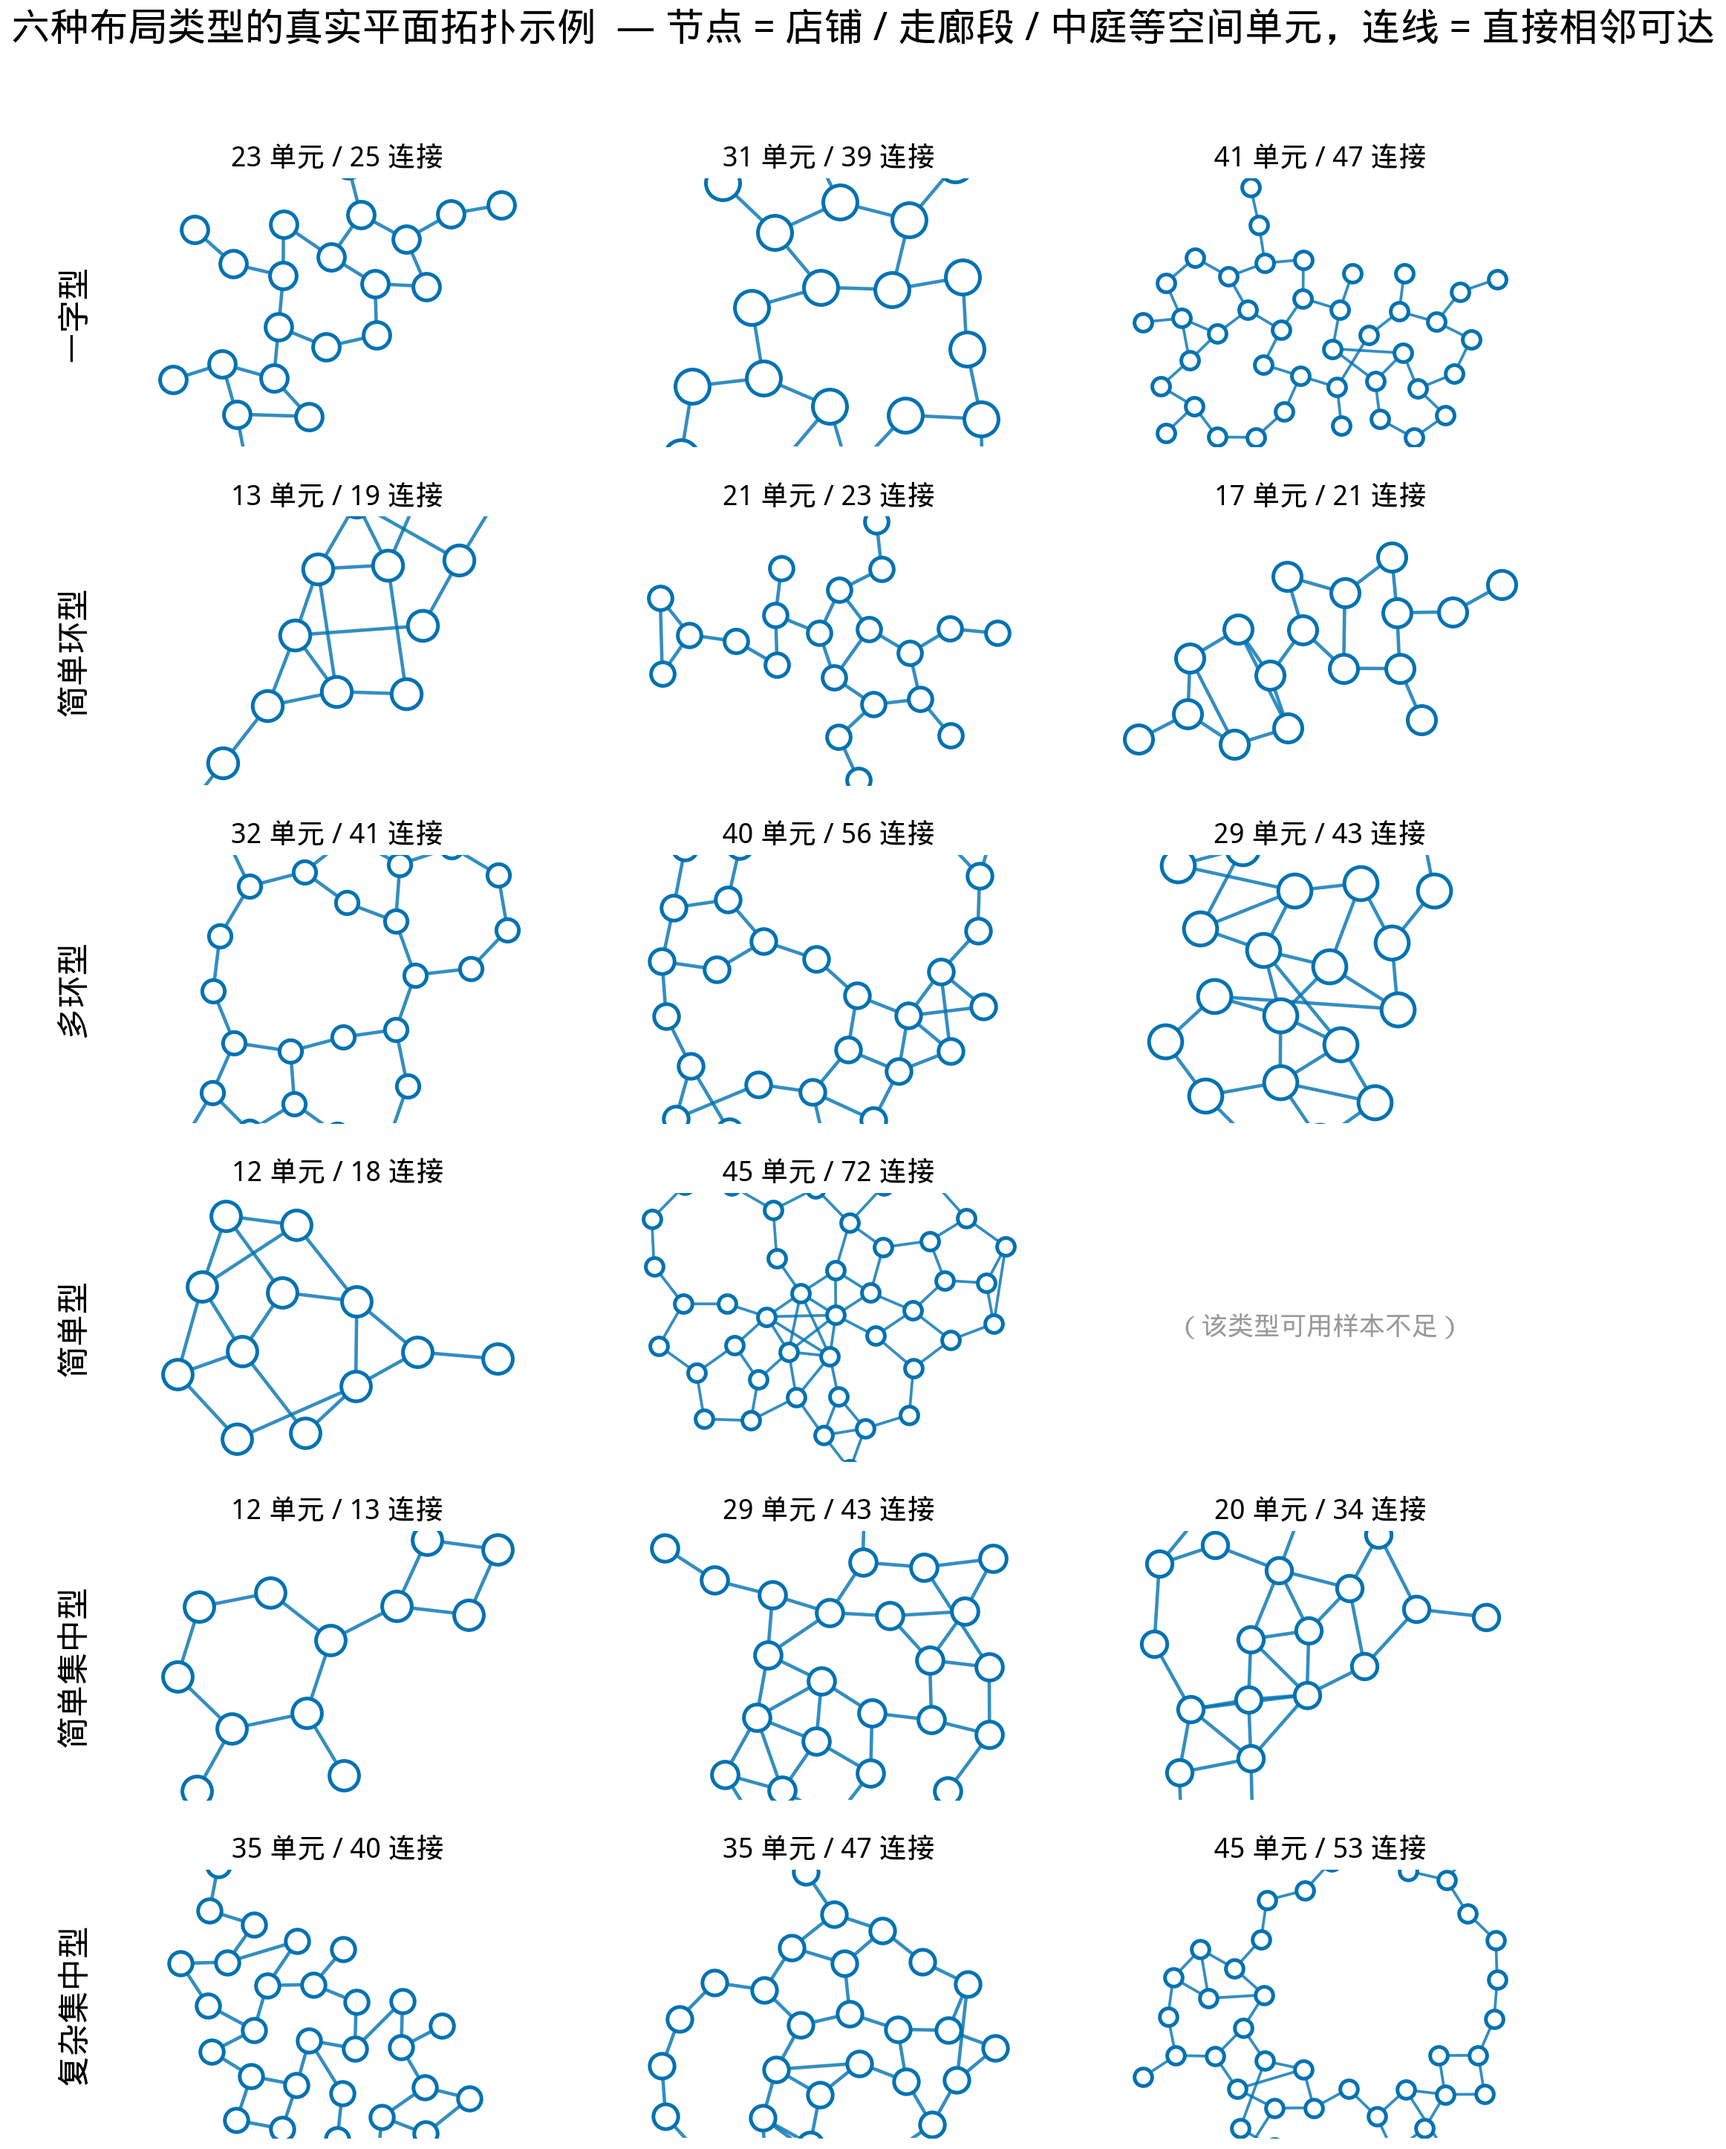
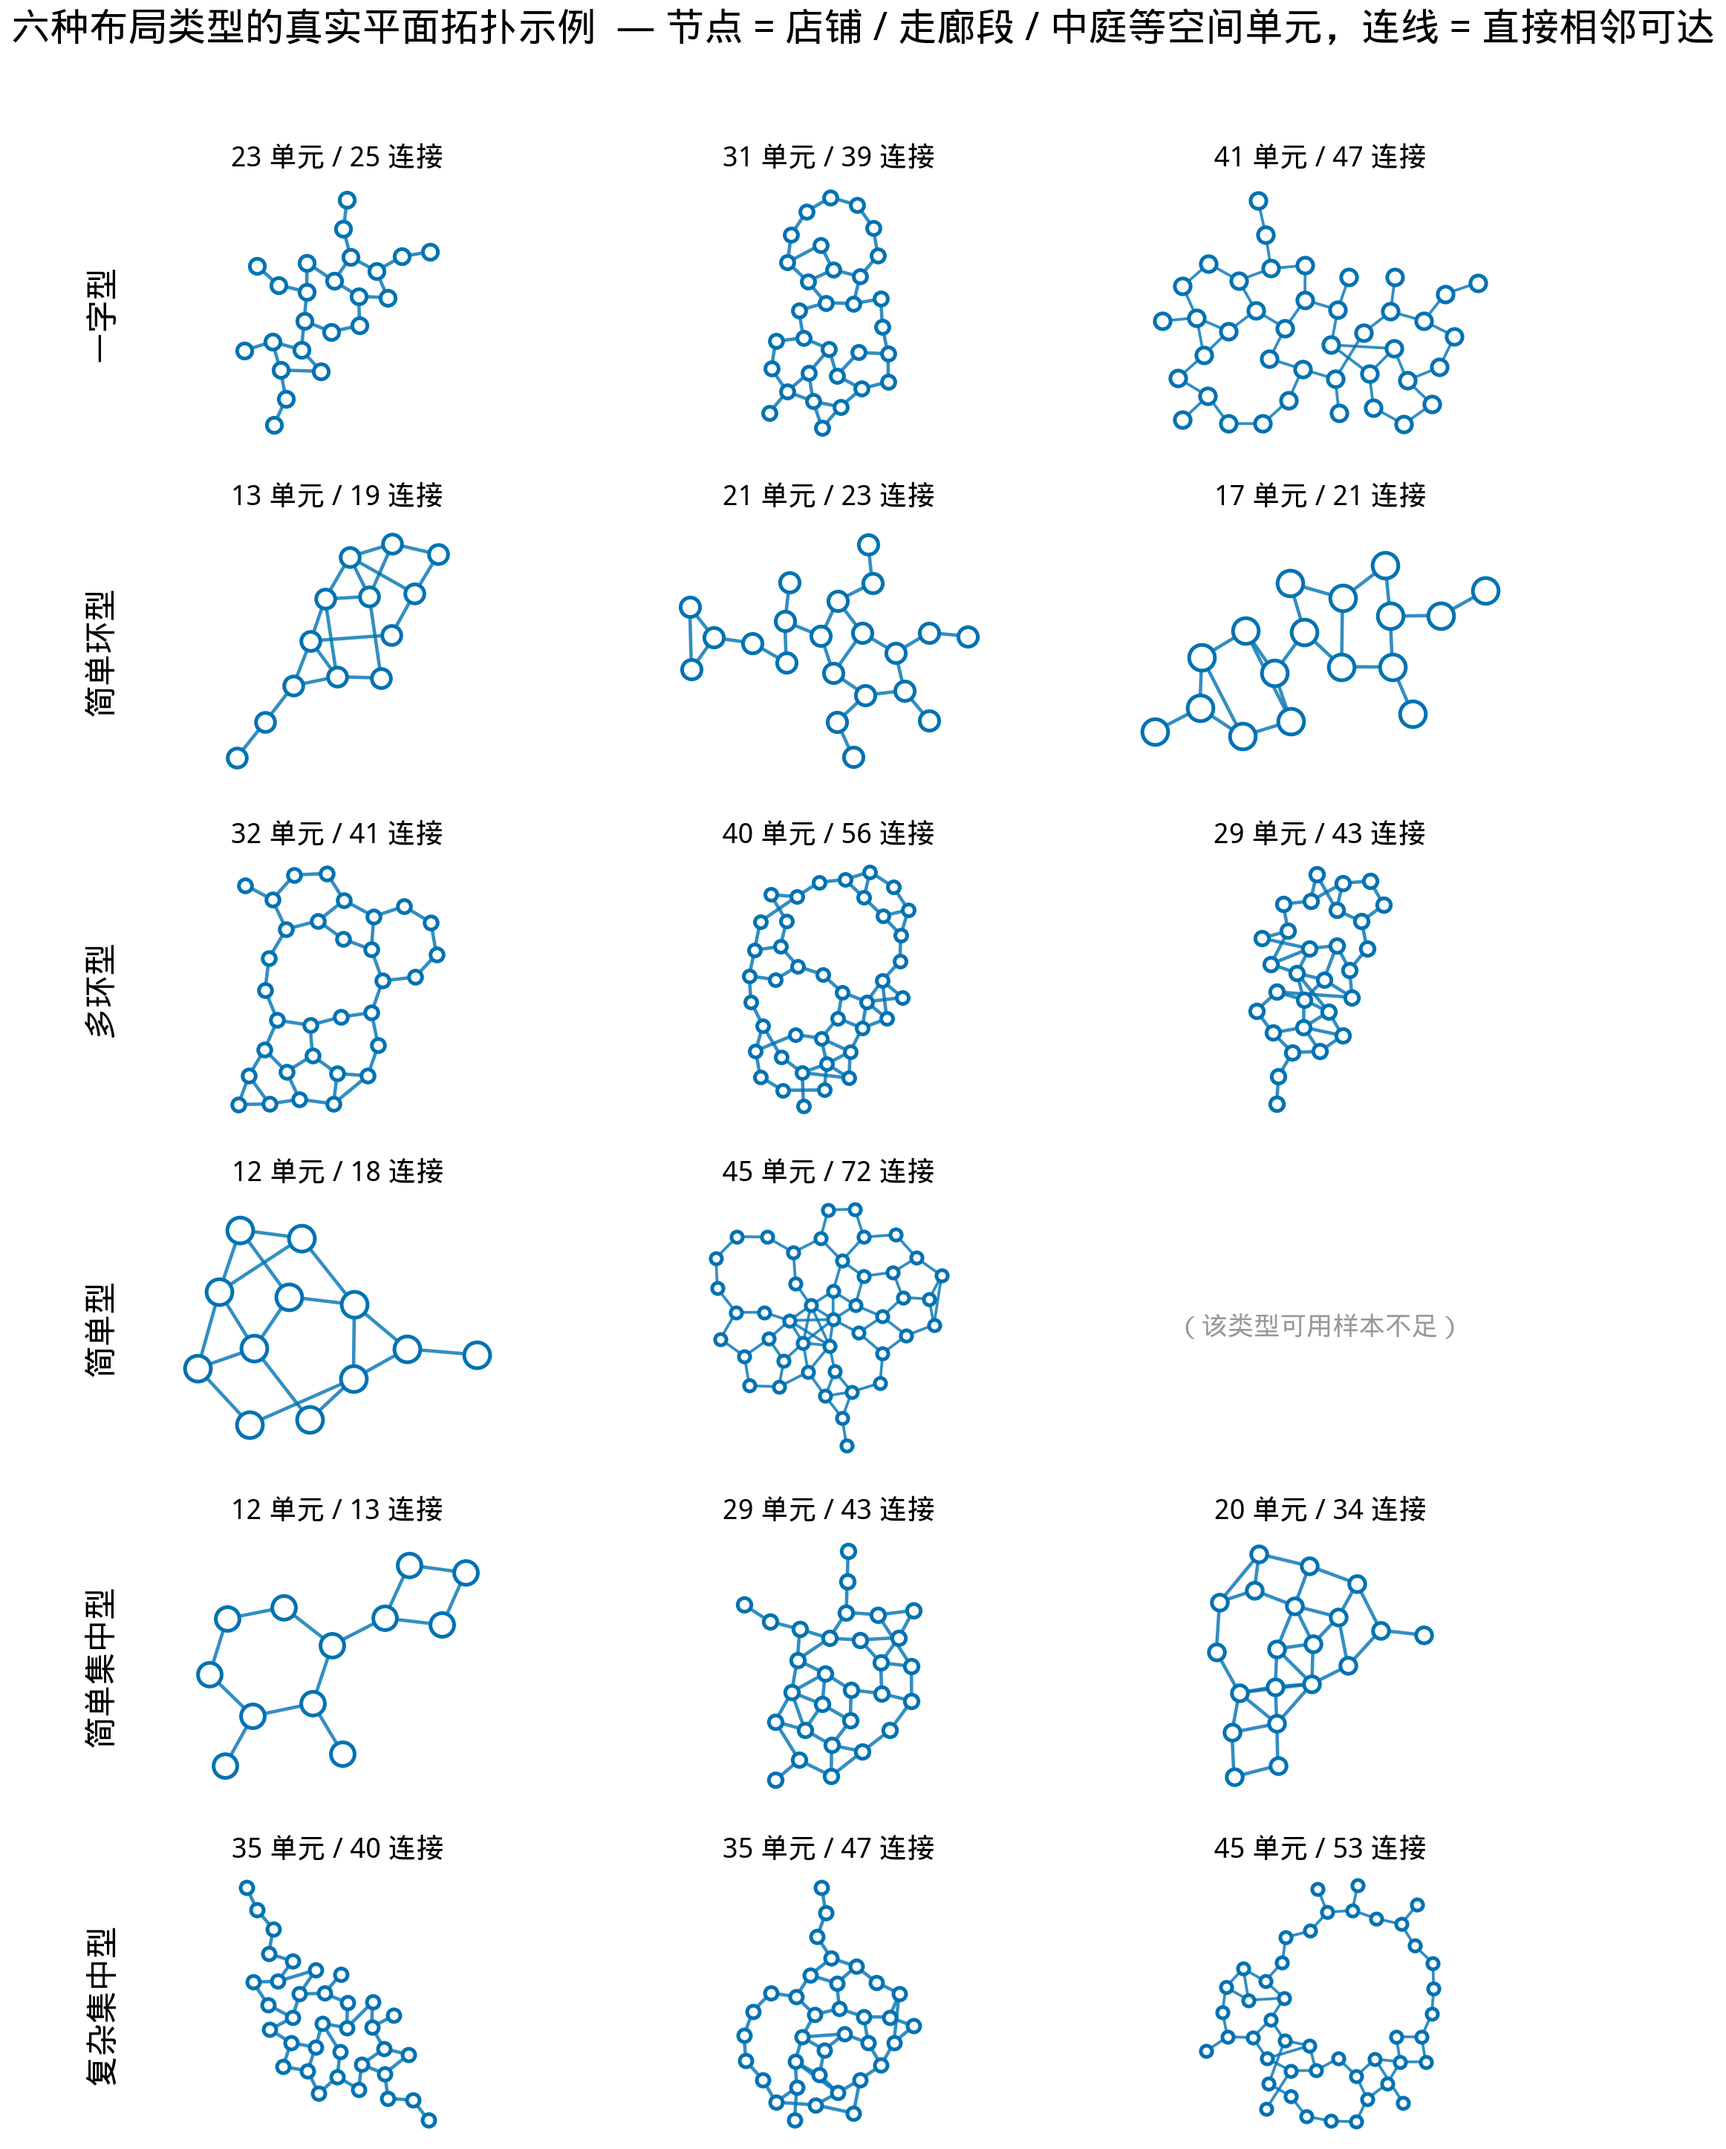
fix(thesis): topology panels no longer clipped — draw_topology widens data limits to the axes-box aspect instead of adjustable=datalim

diff --git a/src/mall_space_planner/reporting/graphdraw.py b/src/mall_space_planner/reporting/graphdraw.py
@@ -150,20 +150,27 @@ def draw_topology(ax, graph: TopologyGraph | nx.Graph, skeleton_nodes: set | Non
     pad = r_data * 2.2
     if frame is not None:
         (x0, x1), (y0, y1) = frame
-        ax.set_xlim(x0 - pad, x1 + pad)
-        ax.set_ylim(y0 - pad, y1 + pad)
     else:
-        ax.set_xlim(P[:, 0].min() - pad, P[:, 0].max() + pad)
-        ax.set_ylim(P[:, 1].min() - pad, P[:, 1].max() + pad)
-    # ``datalim``: keep the axes box fixed (so titles of neighbouring panels align) and widen the data
-    # limits instead of shrinking the box.
-    ax.set_aspect("equal", adjustable="datalim")
+        x0, x1, y0, y1 = P[:, 0].min(), P[:, 0].max(), P[:, 1].min(), P[:, 1].max()
+    x0, x1, y0, y1 = x0 - pad, x1 + pad, y0 - pad, y1 + pad
+    # Equal aspect *without* letting matplotlib shrink the axes box (which mis-aligns titles) and
+    # without ``adjustable="datalim"`` (which is ignored under bbox_inches="tight" and clips the
+    # drawing): widen the data limits ourselves to the axes-box aspect ratio.
     ax.axis("off")
     ax.figure.canvas.draw()  # to get axis size in pixels
     bbox = ax.get_window_extent()
-    xr = ax.get_xlim()[1] - ax.get_xlim()[0]
-    yr = ax.get_ylim()[1] - ax.get_ylim()[0]
-    px_per_data = min(bbox.width / xr, bbox.height / yr)  # effective scale under equal aspect
+    box_aspect = bbox.height / max(bbox.width, 1e-9)
+    w, h = x1 - x0, y1 - y0
+    if h / max(w, 1e-9) < box_aspect:  # box is taller than the data -> grow y
+        extra = w * box_aspect - h
+        y0, y1 = y0 - extra / 2, y1 + extra / 2
+    else:  # box is wider -> grow x
+        extra = h / box_aspect - w
+        x0, x1 = x0 - extra / 2, x1 + extra / 2
+    ax.set_xlim(x0, x1)
+    ax.set_ylim(y0, y1)
+    ax.set_aspect("equal", adjustable="box")
+    px_per_data = bbox.width / (x1 - x0)
     pt_per_px = 72.0 / ax.figure.dpi
     r_pt = r_data * px_per_data * pt_per_px
     size_sk = (2 * r_pt) ** 2
